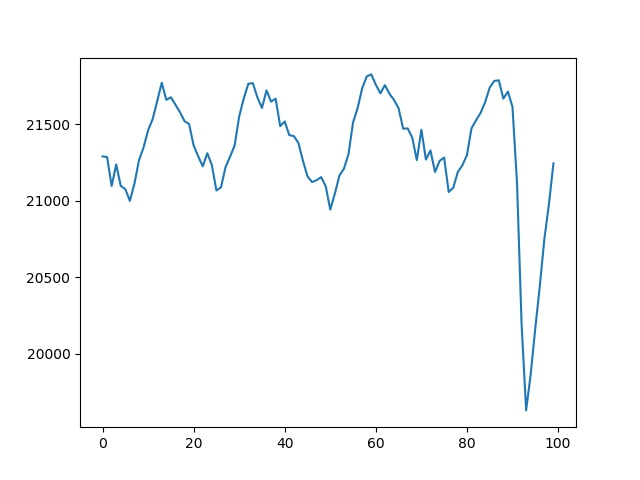
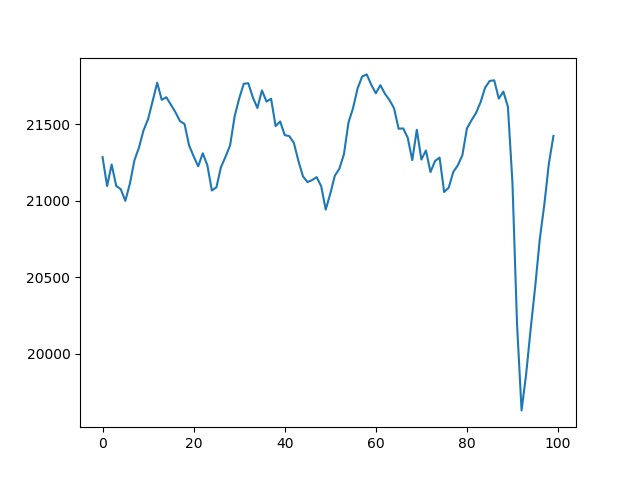
'auto'

Changed region(s): [[0.2812, 0.1562, 0.875, 0.875], [0.2188, 0.1562, 0.2812, 0.3125], [0.1562, 0.3125, 0.2188, 0.4375]]

diff --git a/README.md b/README.md
@@ -1,6 +1,6 @@
 Frizider live: 4
-21245.483333333334 
-1
+21425.216666666667 
+0
 Temperatura:
 
 ![alt text](https://raw.githubusercontent.com/matej14086/frizider/master/images/temp.jpg?)
